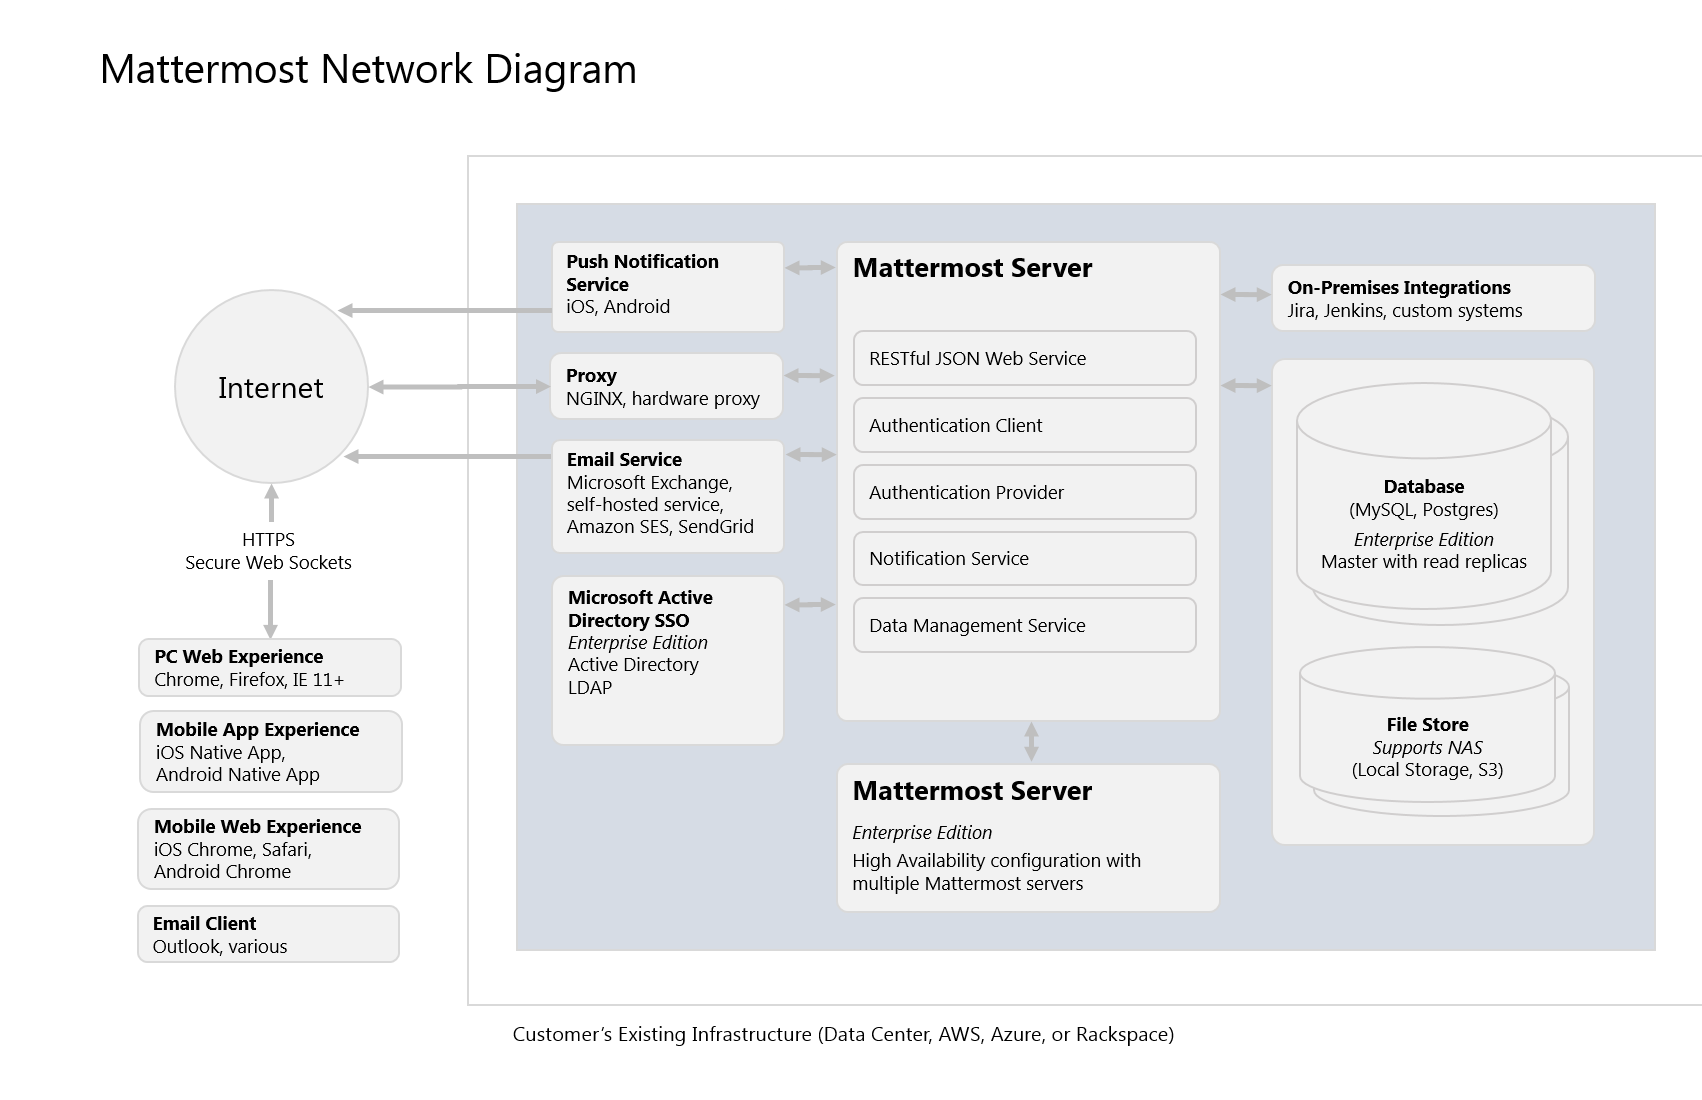
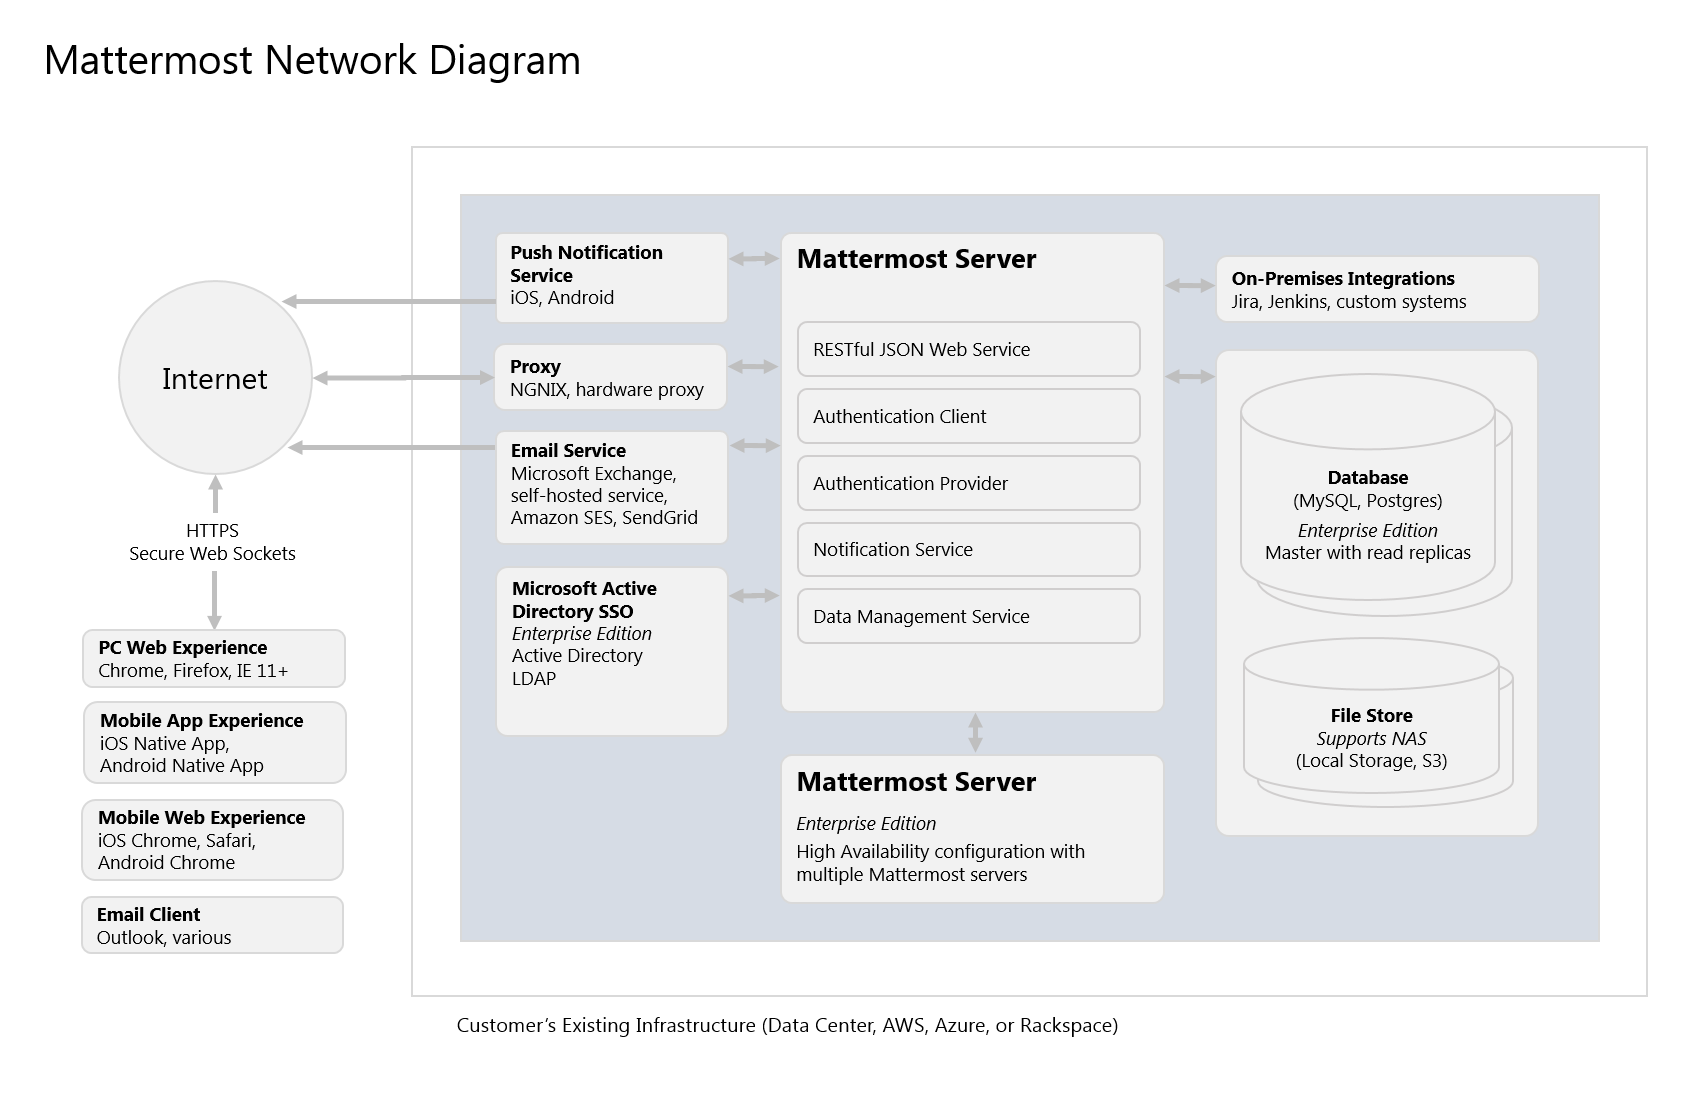
rename network.PNG to network.png

Changed region(s): [[0.0623, 0.1236, 0.9965, 0.8964], [0.2803, 0.8964, 0.9653, 0.9582], [0.0311, 0.0309, 0.3737, 0.0927]]

diff --git a/source/getting-started/implementation_plan.rst b/source/getting-started/implementation_plan.rst
@@ -69,7 +69,7 @@ A Mattermost Enterprise E20 implementation consists of the following system comp
 
 The following diagram is a high-level illustration of the Mattermost platform and how its various components interact with each other within a network:
 
-.. image:: ../images/network.PNG
+.. image:: ../images/network.png
 **Reference**: https://docs.mattermost.com/deployment/deployment.html
 
 A recommended installation of Mattermost Enterprise E20 configured with a redundant, highly available, highly scalable mode, with application (Mattermost Server) and database high availability features enabled, will require the following physical, or virtual, servers:

diff --git a/source/install/requirements.rst b/source/install/requirements.rst
@@ -13,9 +13,9 @@ Deployment Overview
 
 Please see the `Mattermost Deployment Overview <https://docs.mattermost.com/deployment/deployment.html>`__ documentation for a summary of software systems whose requirements are described in this document.
 
-.. figure:: ../images/network.PNG
+.. figure:: ../images/network.png
    :alt: image
-`View Mattermost Network Diagram <https://github.com/mattermost/docs/blob/master/source/images/network.PNG>`__
+`View Mattermost Network Diagram <https://github.com/mattermost/docs/blob/master/source/images/network.png>`__
 
 Software Requirements
 ---------------------

diff --git a/source/deployment/deployment.md b/source/deployment/deployment.md
@@ -2,7 +2,7 @@
 
 The Mattermost network diagram below illustrates a private cloud deployment of Mattermost with optional configurations for scaling to performance from teams to large organizations.
 
-![image](../images/network.PNG)
+![image](../images/network.png)
 
 
 **Note**
